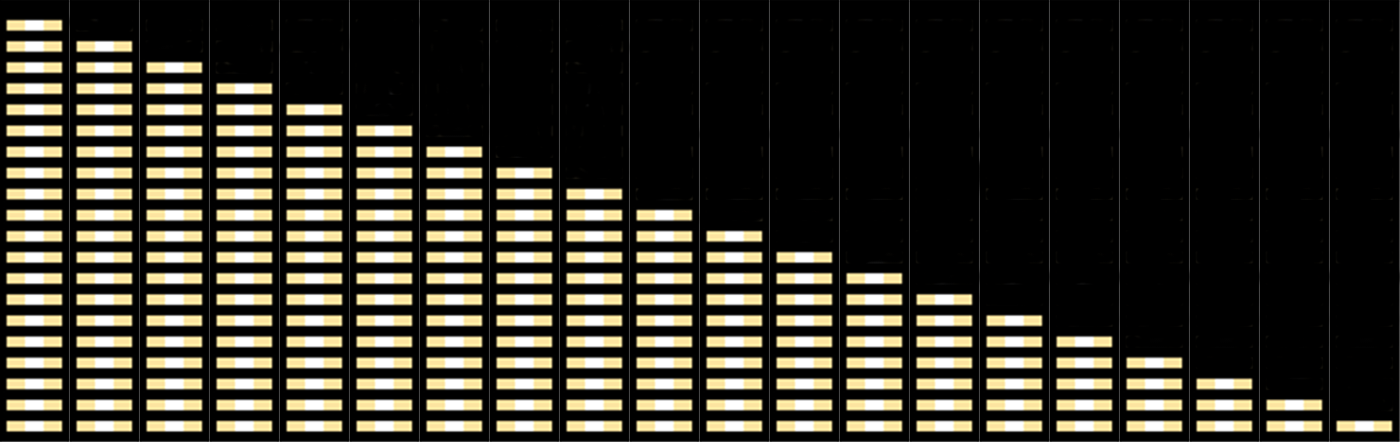
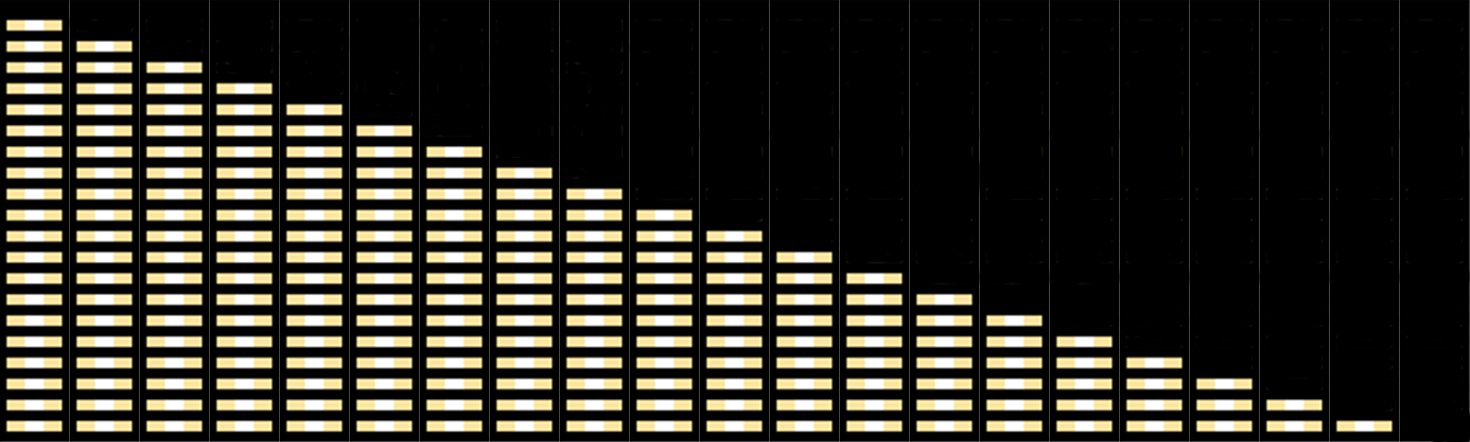
Pantalla de titulo y 0 vidas

Changed region(s): [[0.0, 0.0294, 1.0, 1.0]]

diff --git a/practica3.js b/practica3.js
@@ -32,7 +32,8 @@ var game = function() {
 		"explosion.png", "explosion.json", "shark.png", "lives.png", "lives.json",
 		"lava1.png", "lava1.json", "lava2.png", "lava2.json", "horizontalfire.png",
 		"horizontalfire.json", "firebar.png", "firebar.json", "powerUpP.png", "powerUpG.png", 
-		"powerUpG.json", "OneUp.png", "lanzallamas.png"], function() {
+		"powerUpG.json", "OneUp.png", "lanzallamas.png", "title-screen.png",
+		"title-screen-noletters.png"], function() {
 
 		Q.compileSheets("megaman.png", "megaman.json");
 		Q.compileSheets("roomba.png", "roomba.json");
@@ -46,7 +47,16 @@ var game = function() {
 		Q.compileSheets("firebar.png", "firebar.json");
 		Q.compileSheets("powerUpG.png", "powerUpG.json");
 
+		//INICIALIZACION
+		Q.loadTMX("FiremanStage.tmx", function() {
+			Q.state.reset({ health: 20});
+			Q.stageScene("mainTitle");
+			//Q.stageScene("level1");
+		});
+
 	});
+
+
 
 	//Constantes
 	const MAX_BULLETS = 3;
@@ -57,7 +67,6 @@ var game = function() {
 
 	//SPRITE MEGAMAN
 	Q.Sprite.extend("Megaman",{
-
 		init: function(p) {
 		    this._super(p, {
 		      	sheet: "megaStill",
@@ -81,6 +90,8 @@ var game = function() {
 		},
 
 		step: function(dt) {
+			if(!Q.state.get("checkPoint") && this.p.x > 2190 && this.p.y > 1150)
+				Q.state.set({ checkPoint: true});
 			this.stage.x = this.p.x;
 			this.stage.y = this.p.y;
 			Q.state.set({ health: this.health});
@@ -114,6 +125,10 @@ var game = function() {
 				    else if(Q.inputs['left'] || Q.inputs['right']){
 				    	this.p.vy = 0;
 				        this.play("shoot_ladder_right");
+				    }
+				    else if(Q.inputs['action']){
+				    	this.p.onLadder = false;
+				    	this.p.gravity = 1;
 				    }
 				    else{
 				        this.p.vy = 0;
@@ -216,6 +231,7 @@ var game = function() {
 		},
 
 		Dead: function(){
+			Q.state.set({ health: this.health});
 			this.destroy();
 		},
 
@@ -804,6 +820,28 @@ var game = function() {
 		}
 	});
 
+	 Q.Sprite.extend("Title", {
+        init: function(p) {
+            this._super(p, {
+                y: Q.height/2,
+      			x: Q.width/2,
+      			time: 0,
+      			asset: "title-screen.png"
+                });
+        },
+
+        step: function(dt){
+        	this.p.time += dt;
+        	if(this.p.time >= 0.5){
+        		this.p.time = 0;
+	        	if(this.p.asset == "title-screen.png")
+	        		this.p.asset = "title-screen-noletters.png";
+	        	else
+	        		this.p.asset = "title-screen.png";
+       		}
+        },
+    });
+
[1 lines of base64/hex data omitted]
 	//COMPONENTE ENEMIGOS
 	Q.component("DefaultEnemy", {
@@ -876,8 +914,10 @@ var game = function() {
 					if(!this.invencible)
 						this.health -= enemyPower;
 
-					if(this.health <= 0)
+					if(this.health <= 0){
+						this.health = 0;
 						this.DIE();
+					}
 				}
 
 			},
@@ -1117,13 +1157,6 @@ var game = function() {
 	});
 ///////////////////////////////////CARGA NIVELES////////////////////////////////////////////////////
 
-	//INICIALIZACION
-	Q.loadTMX("FiremanStage.tmx", function() {
-		Q.state.reset({ health: 20});
-		Q.stageScene("level1");
-		Q.stageScene("HUD",1);
-		//Q.stageScene("level1");
-	});
 
 
 	//NIVEL 1
@@ -1151,7 +1184,16 @@ var game = function() {
 
 	//TITULO DEL JUEGO
 	Q.scene("mainTitle", function(stage){
-		
+		stage.insert(new Q.Title());
+      	Q.audio.stop();
+		Q.state.reset({ health: 20, checkPoint: false, lives: 3});
+		// Al pulsar enter o apretar el botón se va al nivel 1
+		Q.input.on("confirm", function(){
+			Q.clearStages();
+			Q.stageScene('level1');
+			Q.stageScene("HUD",1);
+		});
+
 	});
 
 	//GAME OVER
